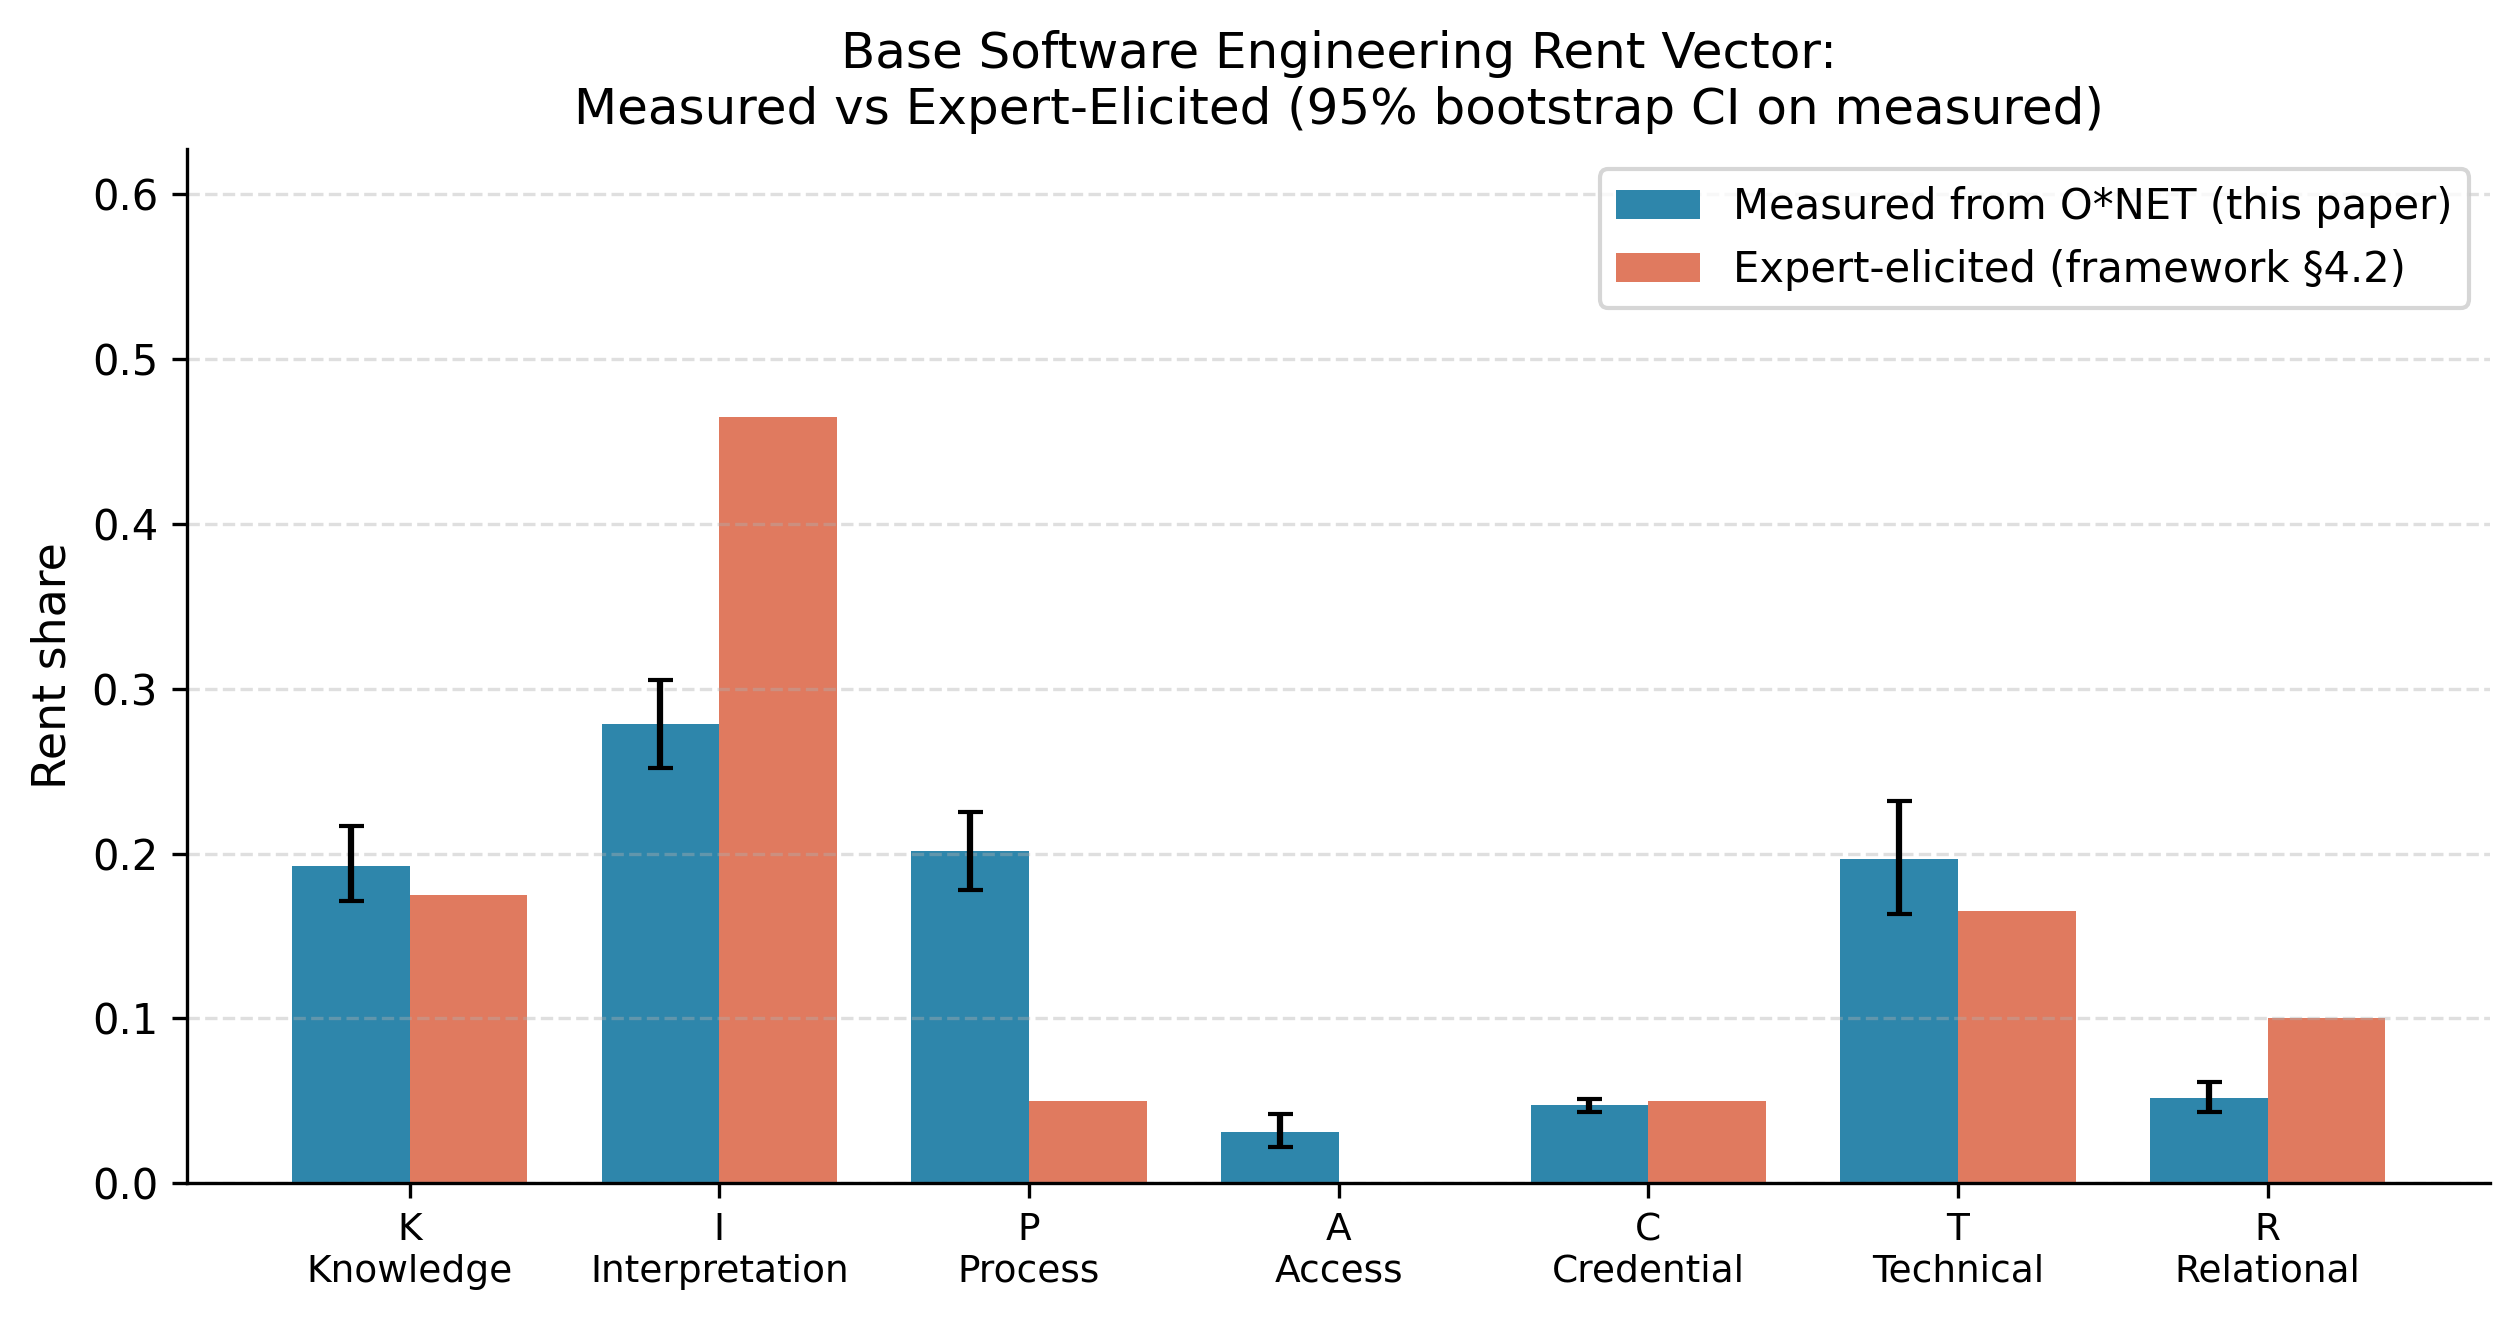
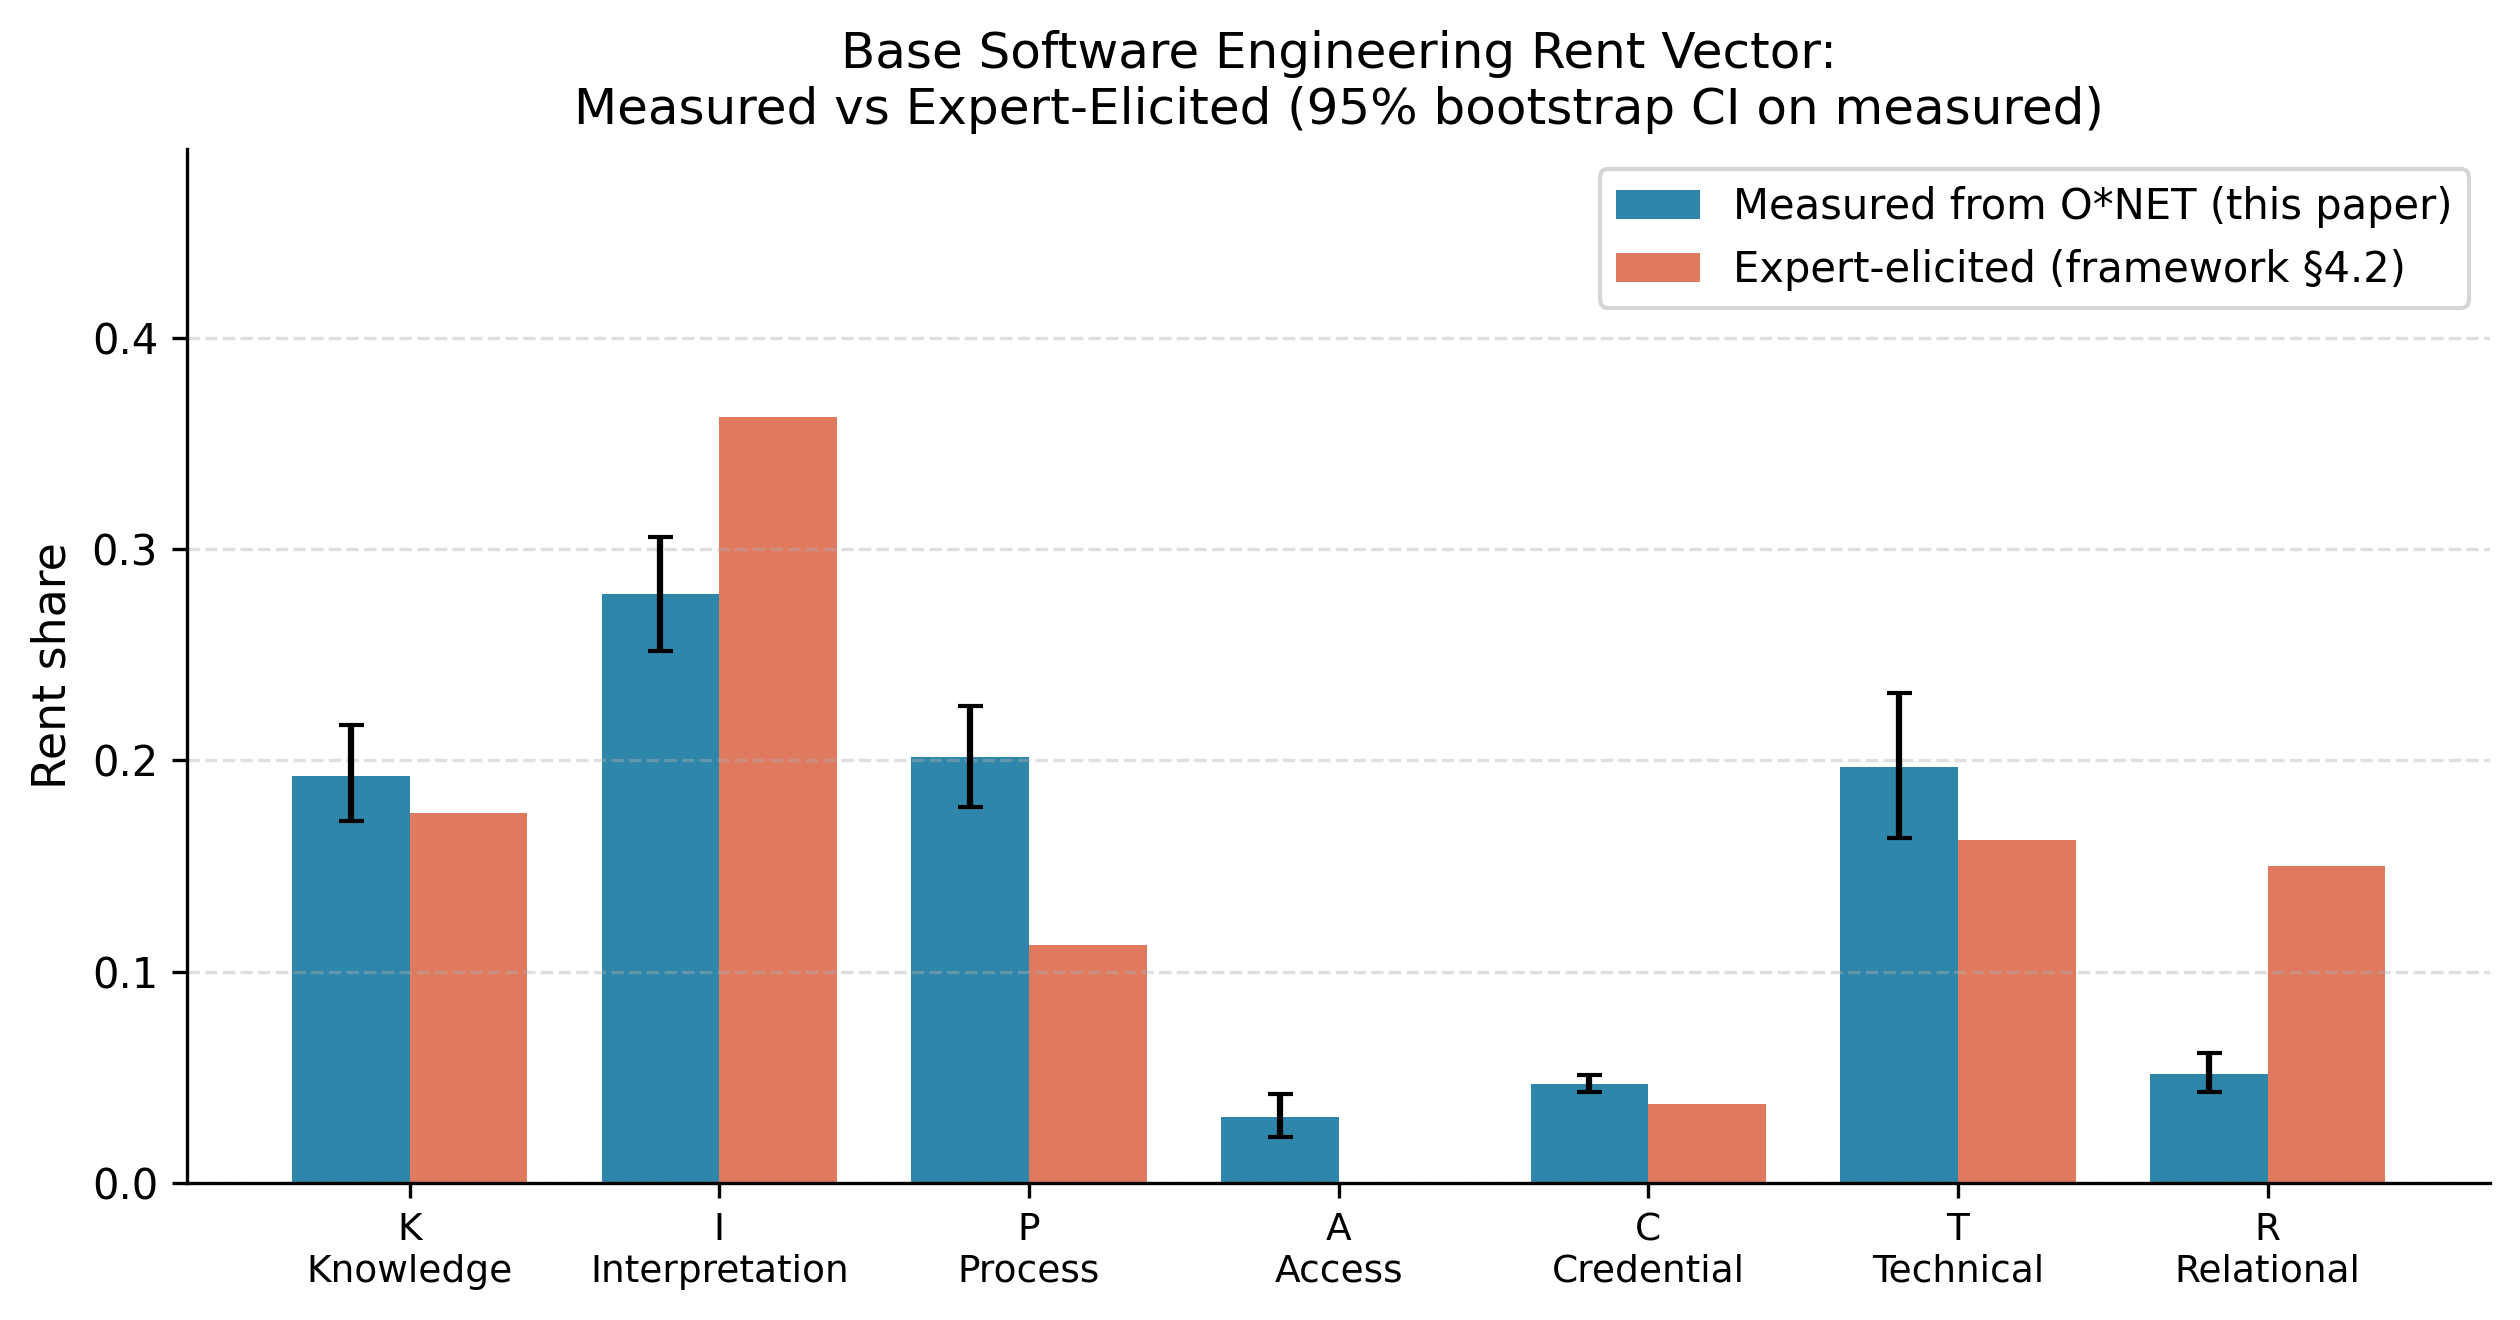
v3.0.1: Consistency pass - arithmetic corrections + plain-language rent definition
- Add plain-language paragraph defining economic rent at start of Section 2.2
- Correct several exposure scores that were off by 1 basis point due to rounding (OR 0.68->0.67, R1 0.75->0.74, Family nurse 0.68->0.67, Surgeon 0.56->0.55, Construction OR 0.68->0.67)
- Update Table 3 expert-elicited column to use tier-mean of the four §4.2 vectors
- Recompute Figure 1 with corrected expert-elicited bars
- Clarify the over-weighting / under-weighting narrative in Section 4.3a

diff --git a/code/figures.py b/code/figures.py
@@ -26,8 +26,9 @@ CHANNEL_LABELS = {
 
 # Expert-elicited vectors from §4.2 of framework_paper_v2.md
 EXPERT_ELICITED = {
-    "base_se": {"K": 0.175, "I": 0.465, "P": 0.05, "A": 0.00,
-                "C": 0.05, "T": 0.165, "R": 0.10},
+    # base_se: unweighted mean of the four tier-specific vectors
+    "base_se": {"K": 0.175, "I": 0.3625, "P": 0.1125, "A": 0.00,
+                "C": 0.0375, "T": 0.1625, "R": 0.15},
     "Junior":    {"K": 0.10, "I": 0.60, "P": 0.00, "A": 0.00,
                   "C": 0.10, "T": 0.15, "R": 0.05},
     "Mid":       {"K": 0.20, "I": 0.50, "P": 0.05, "A": 0.00,

diff --git a/paper/framework_paper.md b/paper/framework_paper.md
@@ -51,6 +51,8 @@ Professional services, in this tradition, are markets where providers hold multi
 
 ### 2.2 The seven-channel rent vector
 
+A note on terminology before we define the channels. By "rent" we mean *economic rent* — the portion of a professional's fee that exceeds what the same work would cost in a fully competitive market for the same labor. A physician's fee is not purely payment for her time; a large part of it is a premium she earns because she knows things her patient does not, interprets information her patient cannot, and carries a license her patient cannot obtain. Each of those reasons is a separate "rent channel." The framework decomposes any professional's fee premium across seven such channels and predicts how much of each AI can substitute. When we say "Interpretation rent," we mean the portion of the fee attributable specifically to the practitioner's ability to synthesize and render judgment on complex information; when we say "Credential rent," we mean the portion attributable to the formal license or degree; and so on. The sum of the seven shares equals one by construction, so the rent vector is a partition of the fee premium.
+
 We identify seven rent channels that jointly capture sources of compensation premium in professional services. The channels are defined so that a role's total asymmetry-based compensation above a competitive-market floor can be attributed across them, with the channel shares summing to one.
 
 - **Knowledge Rent (K):** Compensation for possessing substantive domain facts the client lacks. Historically dominant in medicine (diagnosis), law (statutory knowledge), and engineering (code references).
@@ -125,7 +127,7 @@ Estimated rent vectors based on expert elicitation and fee-survey decomposition:
 
 | Role | K | I | P | A | C | T | R | Exposure $E$ |
 |------|-----|-----|-----|-----|-----|-----|-----|------|
-| Owner's Representative | 0.10 | 0.50 | 0.10 | 0.05 | 0.05 | 0.00 | 0.20 | **0.68** |
+| Owner's Representative | 0.10 | 0.50 | 0.10 | 0.05 | 0.05 | 0.00 | 0.20 | **0.67** |
 | General Contractor | 0.05 | 0.55 | 0.15 | 0.00 | 0.00 | 0.20 | 0.05 | **0.69** |
 | Designer / Architect | 0.15 | 0.30 | 0.10 | 0.00 | 0.25 | 0.15 | 0.05 | **0.63** |
 
@@ -193,20 +195,20 @@ The expert-elicited rent vectors in Section 4.2 are the framework's weakest link
 
 **Figure 1.** Base software engineering rent vector — measured from O*NET (n=78 task statements, blue) vs. expert-elicited from §4.2 (orange). Error bars on measured values are 95% bootstrap confidence intervals from 500 resamples. Aggregate exposure scores converge (measured 0.61 vs. elicited 0.62, overlapping within the confidence interval); channel composition diverges, with expert elicitation over-weighting Interpretation and under-weighting Process.
 
-**Table 3. Measured vs expert-elicited base software engineering rent vectors (95% bootstrap CIs on measured).**
+**Table 3. Measured vs expert-elicited base software engineering rent vectors (95% bootstrap CIs on measured). The expert-elicited column is the unweighted mean of the four tier-specific vectors in §4.2.**
 
-| Channel | Measured (O*NET, n=78) | Expert-elicited (§4.2 mean) |
+| Channel | Measured (O*NET, n=78) | Expert-elicited (§4.2 tier mean) |
 |---|---|---|
 | Knowledge (K) | 0.19 [0.17, 0.22] | 0.18 |
-| Interpretation (I) | 0.28 [0.25, 0.31] | 0.47 |
-| Process (P) | 0.20 [0.18, 0.23] | 0.05 |
+| Interpretation (I) | 0.28 [0.25, 0.31] | 0.36 |
+| Process (P) | 0.20 [0.18, 0.23] | 0.11 |
 | Access (A) | 0.03 [0.02, 0.04] | 0.00 |
-| Credential (C) | 0.05 [0.04, 0.05] | 0.05 |
-| Technical (T) | 0.20 [0.16, 0.23] | 0.17 |
-| Relational (R) | 0.05 [0.04, 0.06] | 0.10 |
+| Credential (C) | 0.05 [0.04, 0.05] | 0.04 |
+| Technical (T) | 0.20 [0.16, 0.23] | 0.16 |
+| Relational (R) | 0.05 [0.04, 0.06] | 0.15 |
 | **Exposure Score** | **0.61 [0.59, 0.63]** | **0.62** |
 
-**Results: channel composition diverges.** Two discrepancies between the measurement and the expert-elicited values deserve attention. Expert judgment over-weighted Interpretation (0.47 vs. 0.28 measured) and under-weighted Process (0.05 vs. 0.20 measured). The framework's channel definitions evidently cue expert respondents toward thinking of software engineering as interpretation-dominated, while the O*NET measurement captures substantial workflow-control (Process) content — release management, sprint coordination, code review gates, deployment approvals — that expert elicitation neglects. This is the first methodological finding of the measurement exercise: the aggregate exposure score is robust to elicitation method, but channel decomposition requires empirical anchoring to avoid systematic bias.
+**Results: channel composition diverges.** Three discrepancies between the measurement and the expert-elicited values deserve attention. Expert judgment over-weighted Interpretation (0.36 expert vs. 0.28 measured), over-weighted Relational (0.15 vs. 0.05), and under-weighted Process (0.11 vs. 0.20). The framework's channel definitions evidently cue expert respondents toward thinking of software engineering as interpretation-dominated and toward attributing cross-team collaboration to Relational rent when much of it is actually workflow control (Process rent). The O*NET measurement captures substantial workflow-control content — release management, sprint coordination, code review gates, deployment approvals — that expert elicitation blurs into Interpretation or Relational categories. This is the first methodological finding of the measurement exercise: the aggregate exposure score is robust to elicitation method, but channel decomposition requires empirical anchoring to avoid systematic bias.
 
 **Results: tier stratification is flat-to-rising, not falling.** Figure 2 reports measured tier-stratified exposure scores. The measured pattern is 0.56 (Junior) → 0.59 (Mid) → 0.62 (Senior) → 0.65 (Principal), contradicting the expert-elicited prediction of 0.75 → 0.74 → 0.58 → 0.41. Figure 3 shows the underlying composition: principal-weighted tasks are higher on Knowledge (0.21) and Interpretation (0.33), while junior-weighted tasks are higher on Technical (0.27).
 
@@ -260,7 +262,7 @@ The author writes from inside this case study. Miami Dade College is among the l
 
 ### 5.2 Role rent compositions within higher education
 
-**Research-Intensive Faculty (R1 professors)** derive compensation from three channels primarily. Research production — grant writing, literature review, peer review, publication drafting — is overwhelmingly interpretation and knowledge work. Graduate teaching emphasizes knowledge and interpretation. Service roles have process and relational components. Estimated vector: $(0.30, 0.40, 0.05, 0.00, 0.15, 0.00, 0.10)$. Exposure $E_{\text{R1}} = 0.75$.
+**Research-Intensive Faculty (R1 professors)** derive compensation from three channels primarily. Research production — grant writing, literature review, peer review, publication drafting — is overwhelmingly interpretation and knowledge work. Graduate teaching emphasizes knowledge and interpretation. Service roles have process and relational components. Estimated vector: $(0.30, 0.40, 0.05, 0.00, 0.15, 0.00, 0.10)$. Exposure $E_{\text{R1}} = 0.74$.
 
 **Teaching-Intensive Faculty** (community college instructors, teaching-focused university faculty) derive compensation differently. Instruction at undergraduate levels is primarily technical — demonstrable skill transfer of capabilities like welding, programming, accounting, clinical technique — combined with substantial relational work around accountability, mentorship, and learning-outcome responsibility. Credential work is present but de-emphasized. Vector: $(0.15, 0.15, 0.05, 0.00, 0.10, 0.35, 0.20)$. Exposure $E_{\text{CC}} = 0.45$.
 
@@ -270,7 +272,7 @@ The author writes from inside this case study. Miami Dade College is among the l
 
 ### 5.3 The Mid-Market Mirror explicated
 
-The framework's prediction across higher education is striking. R1 faculty, whose compensation is dominated by interpretation and knowledge channels, face exposure scores near 0.75. Community college faculty, whose compensation rests on technical and relational channels, face scores near 0.45. At the institutional level, this means that AI adoption will reprice higher education in favor of institutions whose value rests on skill transfer and accountability rather than credential signaling and research production.
+The framework's prediction across higher education is striking. R1 faculty, whose compensation is dominated by interpretation and knowledge channels, face exposure scores near 0.74. Community college faculty, whose compensation rests on technical and relational channels, face scores near 0.45. At the institutional level, this means that AI adoption will reprice higher education in favor of institutions whose value rests on skill transfer and accountability rather than credential signaling and research production.
 
 The logic is the same as in AEC: the roles whose rents rest on interpretation-heavy work face the largest repricing, while roles whose rents rest on embodied skill transfer and long-duration relationships are insulated. Community colleges teach concrete, workplace-evaluable skills. Employer relationships depend on whether graduates can perform the job, not on the signaling value of the institution. Elite universities depend substantially on credential signaling. As AI assesses skills reliably and alternative credentials (portfolios, project demonstrations, AI-administered exams) erode the informational content of degrees, the institutions that rely most on credential signaling face the greatest repricing.
 
@@ -331,10 +333,10 @@ $$E = (0.85 K + 0.95 I + 0.45 P + 0.40 A + 0.50 C + 0.25 T + 0.10 R) / 100$$
 | Junior software engineer | 10 | 60 | 0 | 0 | 10 | 15 | 5 | 0.75 | High-Risk |
 | Community college faculty | 15 | 15 | 5 | 0 | 10 | 35 | 20 | 0.45 | Adapting |
 | General Contractor | 5 | 55 | 15 | 0 | 0 | 20 | 5 | 0.69 | Exposed |
-| R1 Research Faculty | 30 | 40 | 5 | 0 | 15 | 0 | 10 | 0.75 | High-Risk |
-| Family nurse practitioner | 25 | 30 | 10 | 0 | 20 | 10 | 5 | 0.68 | Exposed |
-| Board-certified surgeon | 20 | 20 | 10 | 0 | 15 | 25 | 10 | 0.56 | Exposed |
-| Construction Owner's Rep | 10 | 50 | 10 | 5 | 5 | 0 | 20 | 0.68 | Exposed |
+| R1 Research Faculty | 30 | 40 | 5 | 0 | 15 | 0 | 10 | 0.74 | Exposed |
+| Family nurse practitioner | 25 | 30 | 10 | 0 | 20 | 10 | 5 | 0.67 | Exposed |
+| Board-certified surgeon | 20 | 20 | 10 | 0 | 15 | 25 | 10 | 0.55 | Exposed |
+| Construction Owner's Rep | 10 | 50 | 10 | 5 | 5 | 0 | 20 | 0.67 | Exposed |
 
 The Scorecard is intended for practitioner self-assessment and rapid organizational workforce planning rather than rigorous quantitative prediction. Its purpose is to make the framework's logic portable and action-oriented.
 
